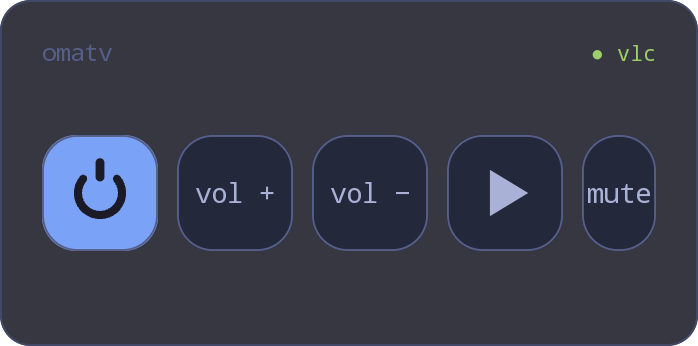
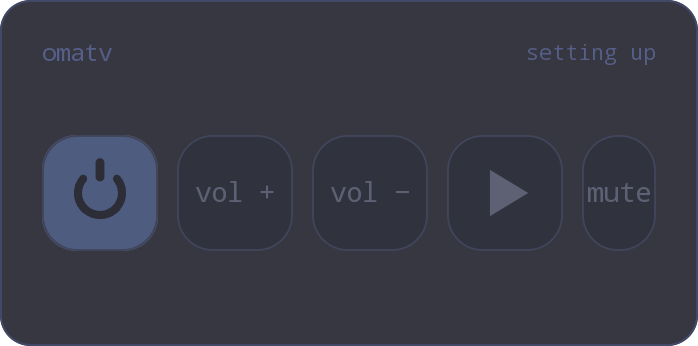
omatv remote: tell a TV that is asleep from one that is not there (#374)
* omatv remote: tell a TV that is asleep from one that is not there

A box whose network answers but whose remote service does not, and an address nobody is
home at, both used to read as the same "asleep". They are worth separating for a user: one
is a box that may come back on its own, and the other is a box to go and look at.

Power also loses its exception. It stayed lit while the rest dimmed on the idea that a
remote should never take away the key that ends the problem, but a key with no session to
write into is not that key — it only looks like one. Standby keeps its session and so keeps
every key; asleep and off-the-network dim all of them and say which they are.

(cherry picked from commit c7612f3c7092370999961c70e1ac534bee78f7a6)

* omatv remote: say what the split between the two actually buys

* omatv remote 1.1

diff --git a/widgets/bastpt/omatvremote/README.md b/widgets/bastpt/omatvremote/README.md
@@ -54,9 +54,23 @@ seconds rather than waiting forever. From then on the widget says so, and a tap 
 arrives while the TV is missed is held for 20 seconds in case the connection comes back,
 then reported as never answered rather than counted as sent.
 
-While the TV is asleep or out of reach the keys dim and answer nothing, since a TV that
-isn't listening would swallow every one. Only power stays lit, and the line at the
-bottom of the view says which of the three the remote is in.
+What it then says depends on what the address does, which is worth telling apart. A box
+whose network is up but whose remote service is not — one in standby, or a television that
+switched its panel off around a box still running — refuses the port, and the widget says
+`asleep`. One that answers nobody, switched off at the socket or gone from this network,
+waits out the network's own timeout, and the widget says `off the network`. In both the
+keys dim and answer nothing, since with no session there is nowhere to send a key to,
+power included; the daemon keeps asking, so the remote lights itself back up the moment
+the TV's service comes back.
+
+That ceiling is the protocol's rather than this widget's. Nothing in it carries the state
+of a connected display, and the messages that would wake or sleep one are CEC, which an
+app cannot send without a privileged service. So a box that is fully off cannot be woken
+over the network at all, and a box that is awake behind a panel that is off keeps
+reporting itself awake, with its app, and takes every key — the remote is honest about the
+box, which is all the box is willing to say. On a television with Android TV or Google TV
+built in, where the box and the panel are one machine, the two states above are all there
+is, and a power key from this widget is what ends the standby one.
 
 ## Privacy
 
